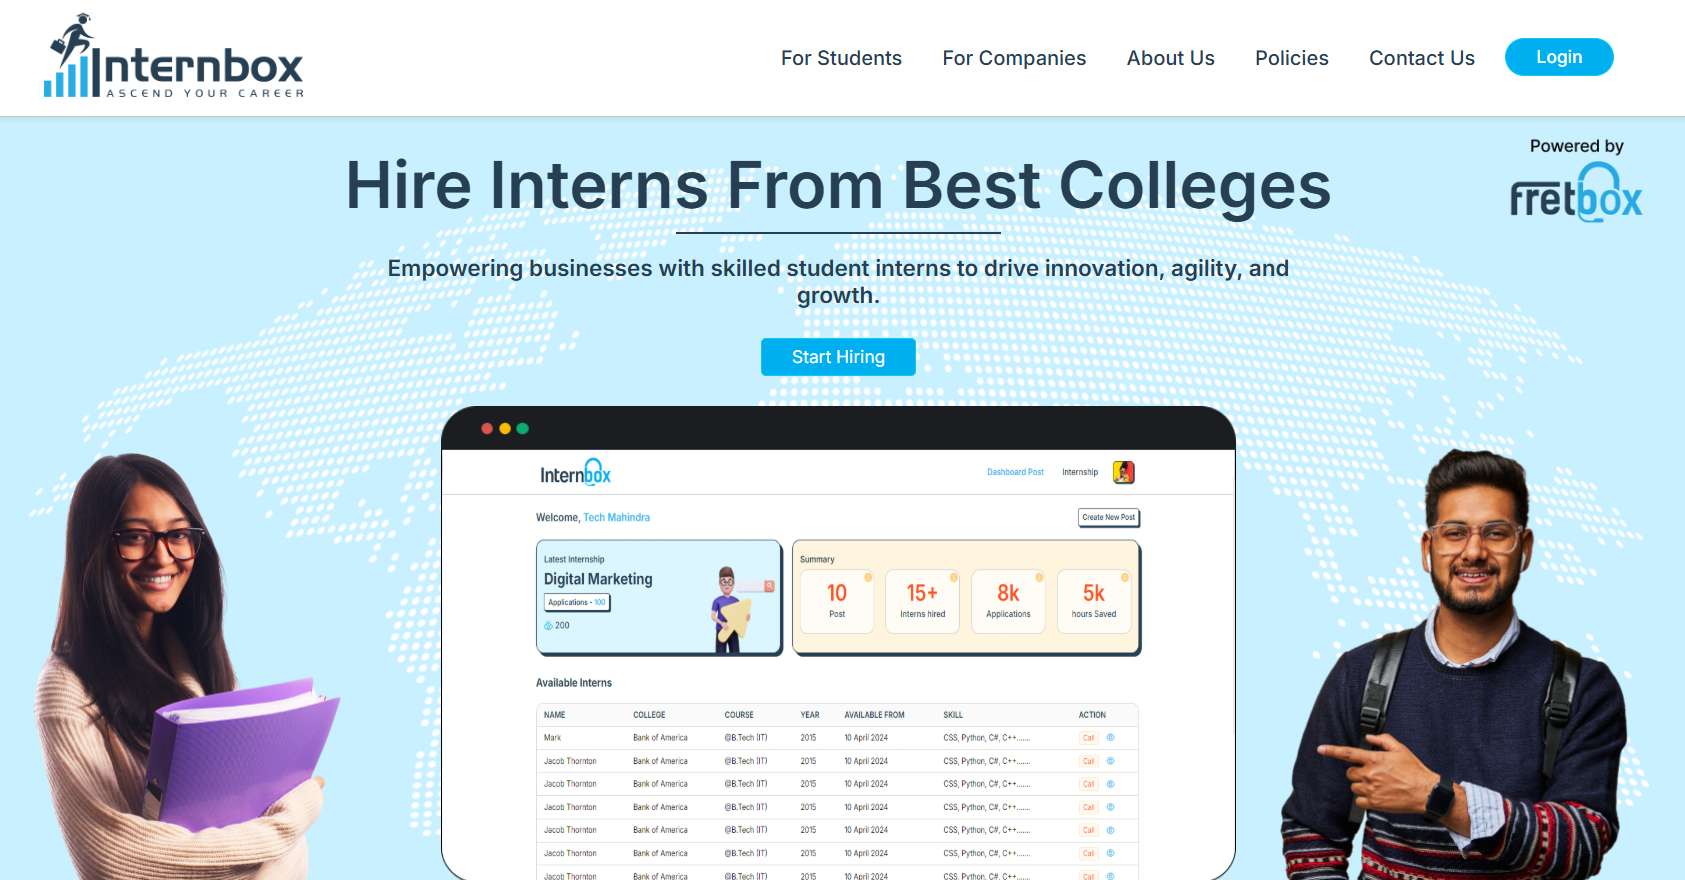
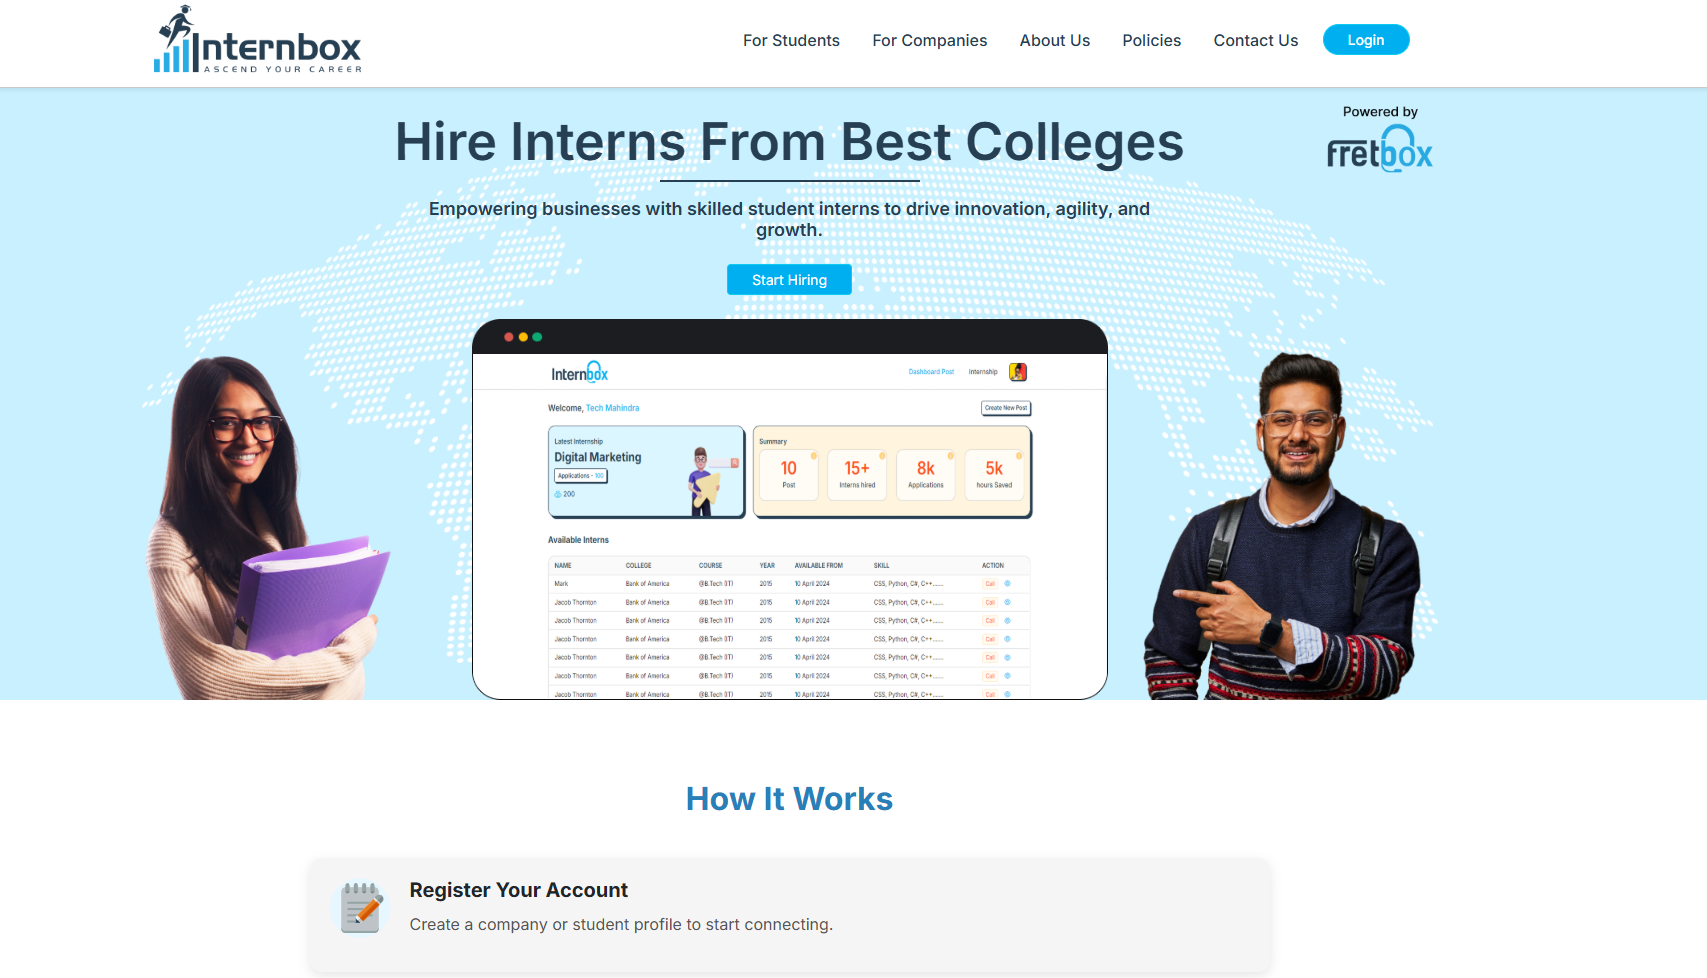
Changes in projects page

diff --git a/src/screen/Projects/ProjectPage.jsx b/src/screen/Projects/ProjectPage.jsx
@@ -9,7 +9,7 @@ import amplifyLogo from '../../../public/images/logos/Amplify-Logo.png';
 import amplifyImage from '../../../public/images/Projects/Amplify-Infra.png';
 
 import vibhuLogo from '../../../public/images/logos/vibhu-logo-final.png';
-import vibhImage from '../../../public/images/Projects/Vibhu-Image.png';
+import vibhImage from '../../../public/images/Projects/Vibhu-prjct.png';
 
 import internBoxLogo from '../../../public/images/logos/InternboxNewLogo.png';
 import internBoxImage from '../../../public/images/Projects/InternBoxImage.png';
@@ -31,43 +31,95 @@ export default function ProjectPage() {
   return (
     <div className="container">
       <div className="project-page">
-        <div className="project-page-card-container">
-          {projects.map((project, index) => (
-            <ProjectCard className="each-card" index={index} key={project.id} {...project} />
-          ))}
-          <div className="card-container-background">
-            <div className="card-section-background"></div>
-            <div className="card-section-background"></div>
-            <div className="card-section-background wavy-box">
-              <svg
-                className="wavy-pattern"
-                viewBox="0 0 300 350"
-                preserveAspectRatio="none"
-                xmlns="http://www.w3.org/2000/svg"
-              >
-                {Array.from({ length: 80 }).map((_, i) => {
-                  const startX = 10 + i * 10; // Shift starting X to spread across
-                  const cp1X = startX - 190;
-                  const cp2X = startX - 100;
-                  const endX = startX - 200;
-                  const strokeWidth = i % 4 === 0 ? 2.5 : 1.3; // 1 in 3 is thick
-                  return (
-                    <path
-                      key={i}
-                      d={`M${startX} 0 C${cp1X} 100, ${cp2X} 1000, ${endX} 350`}
-                      stroke="#00eeff81"
-                      strokeWidth={strokeWidth}
-                      fill="none"
-                    />
-                  );
-                })}
-              </svg>
+        <div className="projects-box">
+
+          <div className="project-grid">
+            <div className="project-page-card-container">
+              {projects.map((project, index) => (
+                <ProjectCard
+                  className="each-card"
+                  index={index}
+                  key={project.id}
+                  {...project}
+                />
+              ))}
+              <div className="card-container-background">
+                <div className="card-section-background"></div>
+                <div className="card-section-background"></div>
+                <div className="card-section-background wavy-box">
+                  <svg
+                    className="wavy-pattern"
+                    viewBox="0 0 300 350"
+                    preserveAspectRatio="none"
+                    xmlns="http://www.w3.org/2000/svg"
+                  >
+                    {Array.from({ length: 80 }).map((_, i) => {
+                      const startX = 10 + i * 10; // Shift starting X to spread across
+                      const cp1X = startX - 190;
+                      const cp2X = startX - 100;
+                      const endX = startX - 200;
+                      const strokeWidth = i % 4 === 0 ? 2.5 : 1.3; // 1 in 3 is thick
+                      return (
+                        <path
+                          key={i}
+                          d={`M${startX} 0 C${cp1X} 100, ${cp2X} 1000, ${endX} 350`}
+                          stroke="#00eeff81"
+                          strokeWidth={strokeWidth}
+                          fill="none"
+                        />
+                      );
+                    })}
+                  </svg>
+                </div>
+                <div className="card-section-background"></div>
+              </div>
             </div>
-            <div className="card-section-background"></div>
           </div>
+
+          <div className="project-grid">
+            <div className="project-page-card-container">
+              {projects.map((project, index) => (
+                <ProjectCard
+                  className="each-card"
+                  index={index}
+                  key={project.id}
+                  {...project}
+                />
+              ))}
+              <div className="card-container-background">
+                <div className="card-section-background"></div>
+                <div className="card-section-background wavy-box">
+                  <svg
+                    className="wavy-pattern"
+                    viewBox="0 0 300 350"
+                    preserveAspectRatio="none"
+                    xmlns="http://www.w3.org/2000/svg"
+                  >
+                    {Array.from({ length: 80 }).map((_, i) => {
+                      const startX = 10 + i * 10; // Shift starting X to spread across
+                      const cp1X = startX - 190;
+                      const cp2X = startX - 100;
+                      const endX = startX - 200;
+                      const strokeWidth = i % 4 === 0 ? 2.5 : 1.3; // 1 in 3 is thick
+                      return (
+                        <path
+                          key={i}
+                          d={`M${startX} 0 C${cp1X} 100, ${cp2X} 1000, ${endX} 350`}
+                          stroke="#00eeff81"
+                          strokeWidth={strokeWidth}
+                          fill="none"
+                        />
+                      );
+                    })}
+                  </svg>
+                </div>
+                <div className="card-section-background"></div>
+              </div>
+            </div>
+          </div>
+          
         </div>
       </div>
-      
     </div>
   );
 }

diff --git a/src/screen/Projects/Projects.scss b/src/screen/Projects/Projects.scss
@@ -1,7 +1,22 @@
 @import '../../color.scss';
 
 .project-page {
-    height: 100vh;
+    min-height: 100vh;
+    padding-bottom: 200px;
+
+
+    .projects-box{
+      display: flex;
+      flex-direction: column;
+      justify-content: space-evenly;
+      gap: 100px;
+
+      .project-grid{
+        display: flex;
+        flex-direction: column;
+        gap: 20px;
+      }
+    }
 
     .each-card{
       display: inline-block;
